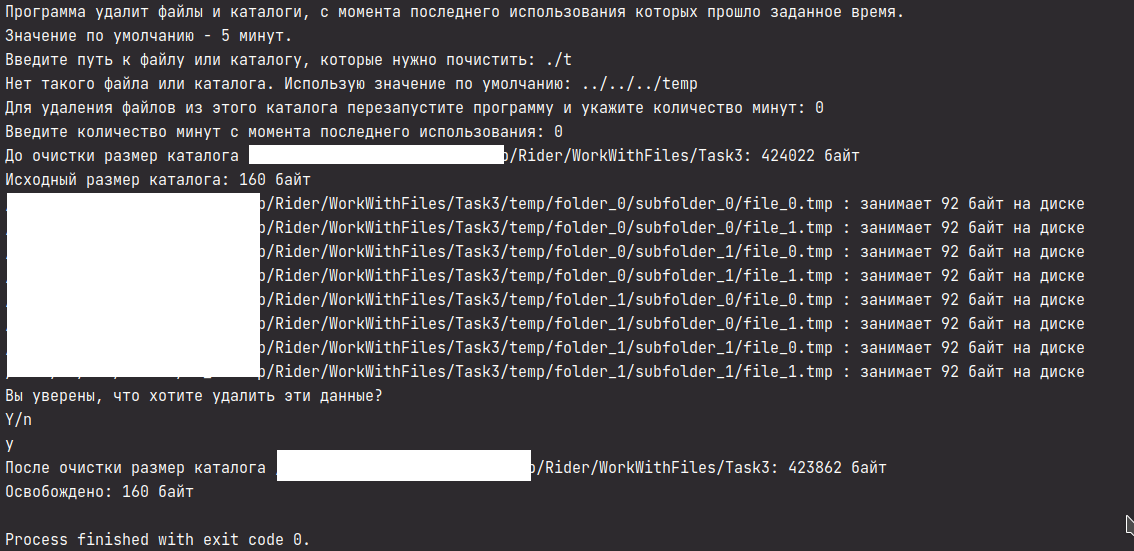
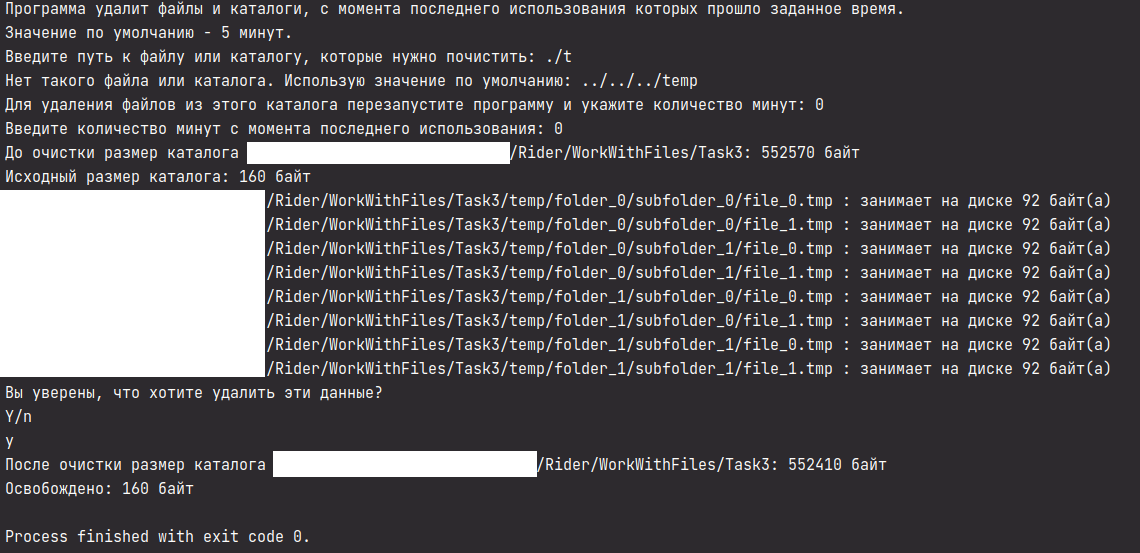
Small output fix for Task3

diff --git a/Task3/Program.cs b/Task3/Program.cs
@@ -62,7 +62,7 @@ namespace Task3
                 foreach (var dir in Directory.GetDirectories(di))
                 {
                     foreach (var file in Directory.GetFiles(dir))
-                        Console.WriteLine($"{file} : занимает {file.Length} байт на диске");
+                        Console.WriteLine($"{file} : занимает на диске {file.Length} байт(а)");
                     UserPathInfo(dir);
                 }
             }
